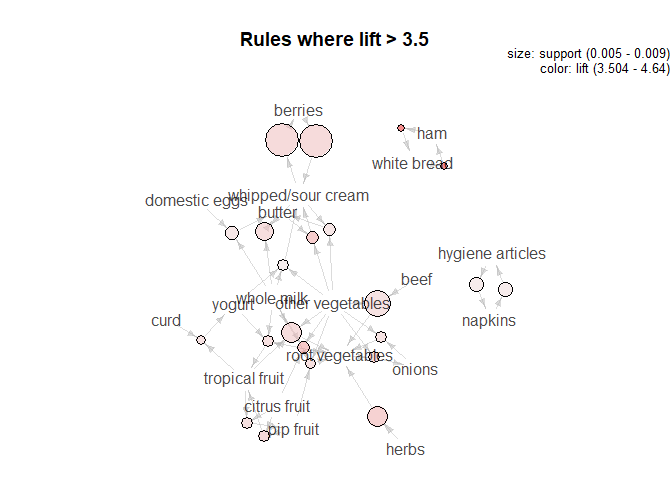
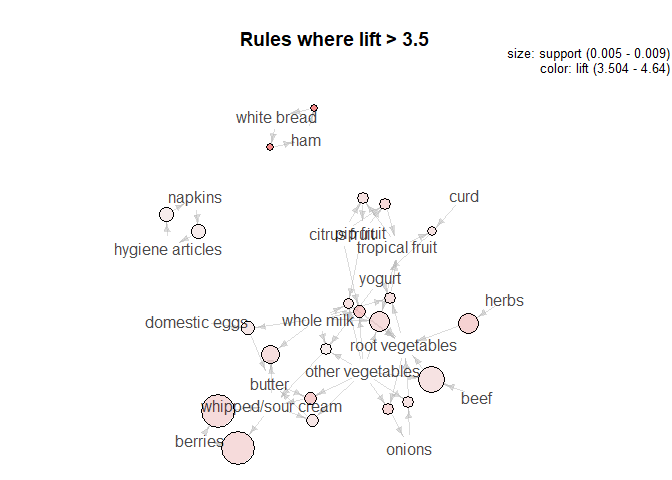
remove html graphs :(

diff --git a/ARM_Groceries.md b/ARM_Groceries.md
@@ -12,6 +12,7 @@ and soda.
 
 Plots were used to see how the rules compared in terms of confidence,
 lift and support. The last plot takes order number into account.
+
 ![](ARM_Groceries_files/figure-gfm/unnamed-chunk-6-1.png)<!-- -->
 
 ![](ARM_Groceries_files/figure-gfm/unnamed-chunk-7-1.png)<!-- -->
@@ -53,15 +54,7 @@ are:
     ## 9  3.401937
     ## 10 3.273165
 
-<!--html_preserve-->
-
-<div id="htmlwidget-5f8b5c352561fd2c9e0f" class="visNetwork html-widget" style="width:672px;height:480px;">
-
-</div>
-
-<script type="application/json" data-for="htmlwidget-5f8b5c352561fd2c9e0f">{"x":{"nodes":{"id":[1,2,3,4,5,6,7,8,9,10,11,12,13,14,15,16,17,18,19,20,21],"label":["citrus fruit","other vegetables","whole milk","herbs","pip fruit","tropical fruit","curd","beef","fruit/vegetable juice","root vegetables","yogurt","rule 1","rule 2","rule 3","rule 4","rule 5","rule 6","rule 7","rule 8","rule 9","rule 10"],"group":["item","item","item","item","item","item","item","item","item","item","item","rule","rule","rule","rule","rule","rule","rule","rule","rule","rule"],"value":[1,1,1,1,1,1,1,1,1,1,1,25.75,68.1785714285714,18.6785714285714,68.1785714285714,15.1428571428572,8.07142857142858,100,1,22.2142857142857,25.75],"color":["#CBD2FC","#CBD2FC","#CBD2FC","#CBD2FC","#CBD2FC","#CBD2FC","#CBD2FC","#CBD2FC","#CBD2FC","#CBD2FC","#CBD2FC","#EE1B1B","#EE4444","#EE6262","#EE7B7B","#EE8B8B","#EE9494","#EE9494","#EEB8B8","#EEC6C6","#EEDCDC"],"title":["citrus fruit","other vegetables","whole milk","herbs","pip fruit","tropical fruit","curd","beef","fruit/vegetable juice","root vegetables","yogurt","<B>[1]<\/B><BR><B>{citrus fruit,<BR>&nbsp;&nbsp;other vegetables,<BR>&nbsp;&nbsp;whole milk}<\/B><BR>&nbsp;&nbsp; => <B>{root vegetables}<\/B><BR><BR>support = 0.0058<BR>confidence = 0.445<BR>lift = 4.09<BR>count = 57<BR>order = 4","<B>[2]<\/B><BR><B>{herbs}<\/B><BR>&nbsp;&nbsp; => <B>{root vegetables}<\/B><BR><BR>support = 0.00702<BR>confidence = 0.431<BR>lift = 3.96<BR>count = 69<BR>order = 2","<B>[3]<\/B><BR><B>{citrus fruit,<BR>&nbsp;&nbsp;pip fruit}<\/B><BR>&nbsp;&nbsp; => <B>{tropical fruit}<\/B><BR><BR>support = 0.00559<BR>confidence = 0.404<BR>lift = 3.85<BR>count = 55<BR>order = 3","<B>[4]<\/B><BR><B>{other vegetables,<BR>&nbsp;&nbsp;tropical fruit,<BR>&nbsp;&nbsp;whole milk}<\/B><BR>&nbsp;&nbsp; => <B>{root vegetables}<\/B><BR><BR>support = 0.00702<BR>confidence = 0.411<BR>lift = 3.77<BR>count = 69<BR>order = 4","<B>[5]<\/B><BR><B>{other vegetables,<BR>&nbsp;&nbsp;pip fruit,<BR>&nbsp;&nbsp;whole milk}<\/B><BR>&nbsp;&nbsp; => <B>{root vegetables}<\/B><BR><BR>support = 0.00549<BR>confidence = 0.406<BR>lift = 3.72<BR>count = 54<BR>order = 4","<B>[6]<\/B><BR><B>{curd,<BR>&nbsp;&nbsp;tropical fruit}<\/B><BR>&nbsp;&nbsp; => <B>{yogurt}<\/B><BR><BR>support = 0.00529<BR>confidence = 0.515<BR>lift = 3.69<BR>count = 52<BR>order = 3","<B>[7]<\/B><BR><B>{beef,<BR>&nbsp;&nbsp;other vegetables}<\/B><BR>&nbsp;&nbsp; => <B>{root vegetables}<\/B><BR><BR>support = 0.00793<BR>confidence = 0.402<BR>lift = 3.69<BR>count = 78<BR>order = 3","<B>[8]<\/B><BR><B>{fruit/vegetable juice,<BR>&nbsp;&nbsp;other vegetables,<BR>&nbsp;&nbsp;whole milk}<\/B><BR>&nbsp;&nbsp; => <B>{yogurt}<\/B><BR><BR>support = 0.00508<BR>confidence = 0.485<BR>lift = 3.48<BR>count = 50<BR>order = 4","<B>[9]<\/B><BR><B>{root vegetables,<BR>&nbsp;&nbsp;tropical fruit,<BR>&nbsp;&nbsp;whole milk}<\/B><BR>&nbsp;&nbsp; => <B>{yogurt}<\/B><BR><BR>support = 0.00569<BR>confidence = 0.475<BR>lift = 3.4<BR>count = 56<BR>order = 4","<B>[10]<\/B><BR><B>{citrus fruit,<BR>&nbsp;&nbsp;root vegetables,<BR>&nbsp;&nbsp;whole milk}<\/B><BR>&nbsp;&nbsp; => <B>{other vegetables}<\/B><BR><BR>support = 0.0058<BR>confidence = 0.633<BR>lift = 3.27<BR>count = 57<BR>order = 4"],"shape":["box","box","box","box","box","box","box","box","box","box","box","circle","circle","circle","circle","circle","circle","circle","circle","circle","circle"],"x":[-0.686185323273589,0.0944374596096063,-0.0607791358851176,0.256153497414136,-1,-0.51867775765343,-0.537916018571399,1,0.769953020672988,0.0186535448257099,-0.00949284433938702,-0.239149286646619,0.155597971653153,-0.912189452577544,-0.229957193733573,-0.417072344363116,-0.406017078216656,0.526147085593878,0.312981578399956,-0.105462749075755,-0.234086371539875],"y":[-0.211359476530111,-0.103270116113204,-0.00437809887066853,-1,-0.12274034273909,0.327972509479167,1,-0.454730431258056,0.421395385190418,-0.244879861781465,0.489589662333947,-0.186942406597092,-0.686171236913949,0.0759546678740632,0.0554689375828361,-0.137221813041913,0.689636575860335,-0.314130898595297,0.236152601646285,0.192178816870848,-0.287480715566899]},"edges":{"from":[1,2,3,4,1,5,2,6,3,2,5,3,7,6,8,2,9,2,3,10,6,3,1,10,3,12,13,14,15,16,17,18,19,20,21],"to":[12,12,12,13,14,14,15,15,15,16,16,16,17,17,18,18,19,19,19,20,20,20,21,21,21,10,10,6,10,10,11,10,11,11,2],"arrows":["to","to","to","to","to","to","to","to","to","to","to","to","to","to","to","to","to","to","to","to","to","to","to","to","to","to","to","to","to","to","to","to","to","to","to"]},"nodesToDataframe":true,"edgesToDataframe":true,"options":{"width":"100%","height":"100%","nodes":{"shape":"dot","scaling":{"label":{"enabled":true}},"physics":false},"manipulation":{"enabled":false},"edges":{"smooth":false},"physics":{"stabilization":false},"interaction":{"hover":true}},"groups":["item","rule"],"width":null,"height":null,"idselection":{"enabled":true,"style":"width: 150px; height: 26px","useLabels":true,"main":"Select by id"},"byselection":{"enabled":false,"style":"width: 150px; height: 26px","multiple":false,"hideColor":"rgba(200,200,200,0.5)"},"main":null,"submain":null,"footer":null,"background":"rgba(0, 0, 0, 0)","igraphlayout":{"type":"square"},"tooltipStay":300,"tooltipStyle":"position: fixed;visibility:hidden;padding: 5px;white-space: nowrap;font-family: verdana;font-size:14px;font-color:#000000;background-color: #f5f4ed;-moz-border-radius: 3px;-webkit-border-radius: 3px;border-radius: 3px;border: 1px solid #808074;box-shadow: 3px 3px 10px rgba(0, 0, 0, 0.2);","highlight":{"enabled":true,"hoverNearest":true,"degree":1,"algorithm":"all","hideColor":"rgba(200,200,200,0.5)","labelOnly":true},"collapse":{"enabled":false,"fit":false,"resetHighlight":true,"clusterOptions":null,"keepCoord":true,"labelSuffix":"(cluster)"}},"evals":[],"jsHooks":[]}</script>
-
-<!--/html_preserve-->
+![](ARM_Groceries_files/figure-gfm/unnamed-chunk-10-1.png)<!-- -->
 
 If we lower the confidence threshold to 0.1, the top 10 rules
     are:
@@ -89,15 +82,7 @@ If we lower the confidence threshold to 0.1, the top 10 rules
     ## 9  3.796886
     ## 10 3.768074
 
-<!--html_preserve-->
-
-<div id="htmlwidget-7b2e3b42e01bb0ded956" class="visNetwork html-widget" style="width:672px;height:480px;">
-
-</div>
-
-<script type="application/json" data-for="htmlwidget-7b2e3b42e01bb0ded956">{"x":{"nodes":{"id":[1,2,3,4,5,6,7,8,9,10,11,12,13,14,15,16,17,18,19,20,21,22,23],"label":["ham","white bread","citrus fruit","other vegetables","whole milk","butter","herbs","root vegetables","pip fruit","berries","whipped/sour cream","tropical fruit","onions","rule 1","rule 2","rule 3","rule 4","rule 5","rule 6","rule 7","rule 8","rule 9","rule 10"],"group":["item","item","item","item","item","item","item","item","item","item","item","item","item","rule","rule","rule","rule","rule","rule","rule","rule","rule","rule"],"value":[1,1,1,1,1,1,1,1,1,1,1,1,1,1,1,18.7692307692308,18.7692307692308,49.2307692307692,16.2307692307692,13.6923076923077,100,100,49.2307692307692],"color":["#CBD2FC","#CBD2FC","#CBD2FC","#CBD2FC","#CBD2FC","#CBD2FC","#CBD2FC","#CBD2FC","#CBD2FC","#CBD2FC","#CBD2FC","#CBD2FC","#CBD2FC","#EE1B1B","#EE1B1B","#EEABAB","#EEB1B1","#EEBDBD","#EECBCB","#EECFCF","#EED7D7","#EED7D7","#EEDCDC"],"title":["ham","white bread","citrus fruit","other vegetables","whole milk","butter","herbs","root vegetables","pip fruit","berries","whipped/sour cream","tropical fruit","onions","<B>[1]<\/B><BR><B>{ham}<\/B><BR>&nbsp;&nbsp; => <B>{white bread}<\/B><BR><BR>support = 0.00508<BR>confidence = 0.195<BR>lift = 4.64<BR>count = 50<BR>order = 2","<B>[2]<\/B><BR><B>{white bread}<\/B><BR>&nbsp;&nbsp; => <B>{ham}<\/B><BR><BR>support = 0.00508<BR>confidence = 0.121<BR>lift = 4.64<BR>count = 50<BR>order = 2","<B>[3]<\/B><BR><B>{citrus fruit,<BR>&nbsp;&nbsp;other vegetables,<BR>&nbsp;&nbsp;whole milk}<\/B><BR>&nbsp;&nbsp; => <B>{root vegetables}<\/B><BR><BR>support = 0.0058<BR>confidence = 0.445<BR>lift = 4.09<BR>count = 57<BR>order = 4","<B>[4]<\/B><BR><B>{butter,<BR>&nbsp;&nbsp;other vegetables}<\/B><BR>&nbsp;&nbsp; => <B>{whipped/sour cream}<\/B><BR><BR>support = 0.0058<BR>confidence = 0.289<BR>lift = 4.04<BR>count = 57<BR>order = 3","<B>[5]<\/B><BR><B>{herbs}<\/B><BR>&nbsp;&nbsp; => <B>{root vegetables}<\/B><BR><BR>support = 0.00702<BR>confidence = 0.431<BR>lift = 3.96<BR>count = 69<BR>order = 2","<B>[6]<\/B><BR><B>{other vegetables,<BR>&nbsp;&nbsp;root vegetables}<\/B><BR>&nbsp;&nbsp; => <B>{onions}<\/B><BR><BR>support = 0.00569<BR>confidence = 0.12<BR>lift = 3.88<BR>count = 56<BR>order = 3","<B>[7]<\/B><BR><B>{citrus fruit,<BR>&nbsp;&nbsp;pip fruit}<\/B><BR>&nbsp;&nbsp; => <B>{tropical fruit}<\/B><BR><BR>support = 0.00559<BR>confidence = 0.404<BR>lift = 3.85<BR>count = 55<BR>order = 3","<B>[8]<\/B><BR><B>{berries}<\/B><BR>&nbsp;&nbsp; => <B>{whipped/sour cream}<\/B><BR><BR>support = 0.00905<BR>confidence = 0.272<BR>lift = 3.8<BR>count = 89<BR>order = 2","<B>[9]<\/B><BR><B>{whipped/sour cream}<\/B><BR>&nbsp;&nbsp; => <B>{berries}<\/B><BR><BR>support = 0.00905<BR>confidence = 0.126<BR>lift = 3.8<BR>count = 89<BR>order = 2","<B>[10]<\/B><BR><B>{other vegetables,<BR>&nbsp;&nbsp;tropical fruit,<BR>&nbsp;&nbsp;whole milk}<\/B><BR>&nbsp;&nbsp; => <B>{root vegetables}<\/B><BR><BR>support = 0.00702<BR>confidence = 0.411<BR>lift = 3.77<BR>count = 69<BR>order = 4"],"shape":["box","box","box","box","box","box","box","box","box","box","box","box","box","circle","circle","circle","circle","circle","circle","circle","circle","circle","circle"],"x":[0.822046298775884,0.888345550713478,-0.178130607676312,-0.383281854870883,-0.00663926752867972,0.199714752910017,-0.91920931435511,-0.639423796593413,0.479300473564739,-0.199490550632131,-0.174444913043083,0.107038264726135,-1,0.717480425640003,1,-0.346932589109233,-0.138889983985789,-0.923947333926401,-0.759273451486521,0.166812893194003,-0.425550462018373,0.0499784813639357,-0.228580250247869],"y":[0.273339300942319,-0.221892176369913,-0.921742420843461,-0.0711574083032306,-0.396958200592235,0.382363580517641,-0.845452679508242,-0.361889646957413,-1,1,0.642851229230522,-0.667991422134402,0.223504235813375,0.00411906265350859,0.0480428627535039,-0.530088602915312,0.297550181637046,-0.560092310995401,-0.00791023017762482,-0.977988863483785,0.822419571344981,0.871211215135804,-0.355043373823534]},"edges":{"from":[1,2,3,4,5,6,4,7,4,8,3,9,10,11,4,12,5,14,15,16,17,18,19,20,21,22,23],"to":[14,15,16,16,16,17,17,18,19,19,20,20,21,22,23,23,23,2,1,8,11,8,13,12,11,10,8],"arrows":["to","to","to","to","to","to","to","to","to","to","to","to","to","to","to","to","to","to","to","to","to","to","to","to","to","to","to"]},"nodesToDataframe":true,"edgesToDataframe":true,"options":{"width":"100%","height":"100%","nodes":{"shape":"dot","scaling":{"label":{"enabled":true}},"physics":false},"manipulation":{"enabled":false},"edges":{"smooth":false},"physics":{"stabilization":false},"interaction":{"hover":true}},"groups":["item","rule"],"width":null,"height":null,"idselection":{"enabled":true,"style":"width: 150px; height: 26px","useLabels":true,"main":"Select by id"},"byselection":{"enabled":false,"style":"width: 150px; height: 26px","multiple":false,"hideColor":"rgba(200,200,200,0.5)"},"main":null,"submain":null,"footer":null,"background":"rgba(0, 0, 0, 0)","igraphlayout":{"type":"square"},"tooltipStay":300,"tooltipStyle":"position: fixed;visibility:hidden;padding: 5px;white-space: nowrap;font-family: verdana;font-size:14px;font-color:#000000;background-color: #f5f4ed;-moz-border-radius: 3px;-webkit-border-radius: 3px;border-radius: 3px;border: 1px solid #808074;box-shadow: 3px 3px 10px rgba(0, 0, 0, 0.2);","highlight":{"enabled":true,"hoverNearest":true,"degree":1,"algorithm":"all","hideColor":"rgba(200,200,200,0.5)","labelOnly":true},"collapse":{"enabled":false,"fit":false,"resetHighlight":true,"clusterOptions":null,"keepCoord":true,"labelSuffix":"(cluster)"}},"evals":[],"jsHooks":[]}</script>
-
-<!--/html_preserve-->
+![](ARM_Groceries_files/figure-gfm/unnamed-chunk-12-1.png)<!-- -->
 
 Here we see a graph of the rules with a lift of higher than 3.5:
 
